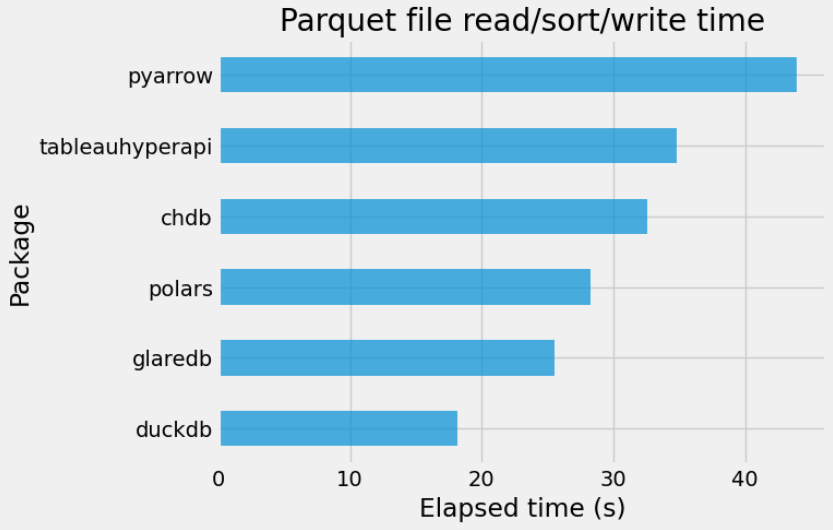
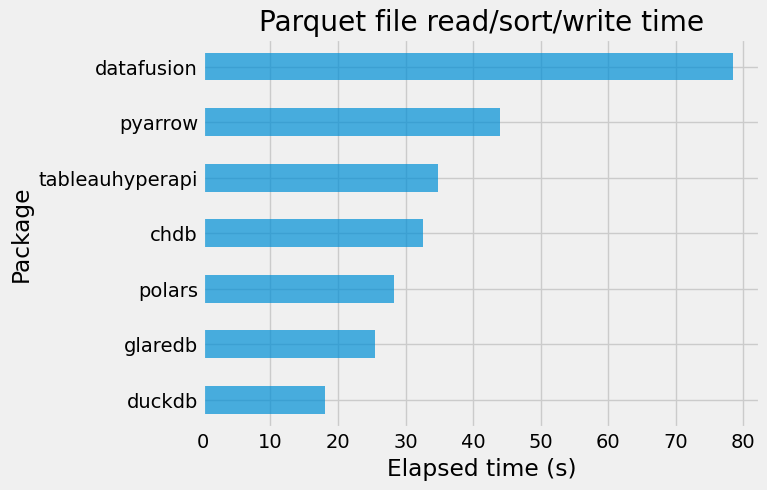
post update

diff --git a/_posts/WP_2023-11-15-Parquet-file-sorting-test.md b/_posts/WP_2023-11-15-Parquet-file-sorting-test.md
@@ -1,4 +1,7 @@
 
+**Update** Nov 17, 2023 - Added results with the latest DataFusion version.
+
+
 Some time ago, we came across an intriguing Parquet sorting test shared by Mimoune Djouallah on Twitter [@mim_djo](https://twitter.com/mim_djo). The test involves reading a Parquet file, sorting the table, and writing the sorted data back to a Parquet file on disk. You can find the original post [here](https://x.com/mim_djo/status/1637321688382853120?s=20).
 
 <p align="center">
@@ -14,6 +17,7 @@ Given the manageable size of the table, the sorting operation fits in memory, th
 - [Polars](https://www.pola.rs/)
 - [PyArrow](https://arrow.apache.org/docs/python/index.html)
 - [GlareDB](https://docs.glaredb.com/glaredb/python/)
+- [DataFusion](https://arrow.apache.org/datafusion-python/index.html)
 
 Here are the language and package versions used:
 
@@ -24,6 +28,7 @@ Here are the language and package versions used:
     polars          : 0.19.13
     pyarrow         : 14.0.1
     glaredb         : 0.6.1
+    datafusion      : 33.0.0
 
 The code was executed on a Linux laptop with the following specifications:
 
@@ -42,6 +47,7 @@ Imports:
 import os 
 
 import chdb
+from datafusion import SessionContext
 import duckdb
 import glaredb
 import polars as pl
@@ -160,9 +166,20 @@ table = con.sql(sql).to_arrow()
 pq.write_table(table, where=output_file_path)
 ```
 
+### DataFusion
+
+DataFusion is writing several limited size Parquet files located in a common folder. We did not find a way to change this file size threshold. In order to get a single sorted Parquet file, we used an arrow table and `pyarrow.parquet` to write a single Parquet file.
+
+```python
+ctx = SessionContext()
+ctx.register_parquet("lineitem", input_file_path)
+sorted_table = ctx.sql("SELECT * FROM lineitem ORDER BY l_shipdate").to_arrow_table()
+pq.write_table(sorted_table, output_file_path)
+```
+
 ### Others
 
-Unfortunately, attempts to utilize [DataFusion](https://arrow.apache.org/datafusion-python/) and [Dask](https://docs.dask.org/en/stable/) for the sorting task were unsuccessful, resulting in crashes. It's worth noting that these tools performed well for a smaller table, such as SF1.
+Unfortunately, attempts to utilize [Dask](https://docs.dask.org/en/stable/) were unsuccessful, resulting in crashes, and we did not investigate much. It's worth noting that it performed well for a smaller tables, such as with SF1 or SF3.
 
 ## Results
 
@@ -170,4 +187,4 @@ Unfortunately, attempts to utilize [DataFusion](https://arrow.apache.org/datafus
   <img width="800" src="https://github.com/aetperf/aetperf.github.io/blob/master/img/2023-11-15_01/elapsed_time.png" alt="elapsed_time">
 </p>
 
-In the sorting performance comparison, DuckDB demonstrated the quickest elapsed time, outperforming GlareDB, Polars, CHDB (ClickHouse), and Tableau HyperAPI. 
+In the sorting performance comparison, DuckDB demonstrated the quickest elapsed time. 

diff --git a/_posts/2023-11-15-Parquet-file-sorting-test.md b/_posts/2023-11-15-Parquet-file-sorting-test.md
@@ -14,7 +14,11 @@ tags:
 - ClickHouse
 - Polars
 - GlareDB
+- DataFusion
 ---
+
+**Update** Nov 17, 2023 - Added results with the latest DataFusion version.
+
 
 Some time ago, we came across an intriguing Parquet sorting test shared by Mimoune Djouallah on Twitter [@mim_djo](https://twitter.com/mim_djo). The test involves reading a Parquet file, sorting the table, and writing the sorted data back to a Parquet file on disk. You can find the original post [here](https://x.com/mim_djo/status/1637321688382853120?s=20).
 
@@ -31,6 +35,7 @@ Given the manageable size of the table, the sorting operation fits in memory, th
 - [Polars](https://www.pola.rs/)
 - [PyArrow](https://arrow.apache.org/docs/python/index.html)
 - [GlareDB](https://docs.glaredb.com/glaredb/python/)
+- [DataFusion](https://arrow.apache.org/datafusion-python/index.html)
 
 Here are the language and package versions used:
 
@@ -41,6 +46,7 @@ Here are the language and package versions used:
     polars          : 0.19.13
     pyarrow         : 14.0.1
     glaredb         : 0.6.1
+    datafusion      : 33.0.0
 
 The code was executed on a Linux laptop with the following specifications:
 
@@ -59,6 +65,7 @@ Imports:
 import os 
 
 import chdb
+from datafusion import SessionContext
 import duckdb
 import glaredb
 import polars as pl
@@ -74,7 +81,6 @@ output_file_path = os.path.join(data_dir_path, "lineitem_sorted.parquet")
 ```
 
 ### DuckDB
-
 
 ```python
 duckdb_file_path = os.path.join(data_dir_path, "data.duckdb")
@@ -178,9 +184,20 @@ table = con.sql(sql).to_arrow()
 pq.write_table(table, where=output_file_path)
 ```
 
+### DataFusion
+
+DataFusion is writig several limited size Parquet files located in a common folder. In order to get a single sorted Parquet file, we use a arrow table and use `pyarrow.parquet` to write a single Parquet file.
+
+```python
+ctx = SessionContext()
+ctx.register_parquet("lineitem", input_file_path)
+sorted_table = ctx.sql("SELECT * FROM lineitem ORDER BY l_shipdate").to_arrow_table()
+pq.write_table(sorted_table, output_file_path)
+```
+
 ### Others
 
-Unfortunately, attempts to utilize [DataFusion](https://arrow.apache.org/datafusion-python/) and [Dask](https://docs.dask.org/en/stable/) for the sorting task were unsuccessful, resulting in crashes. It's worth noting that these tools performed well for a smaller table, such as SF1.
+Unfortunately, attempts to utilize [Dask](https://docs.dask.org/en/stable/) for the sorting task were unsuccessful, resulting in crashes. It's worth noting that it performed well for a smaller table, with SF1 or SF3.
 
 ## Results
 
